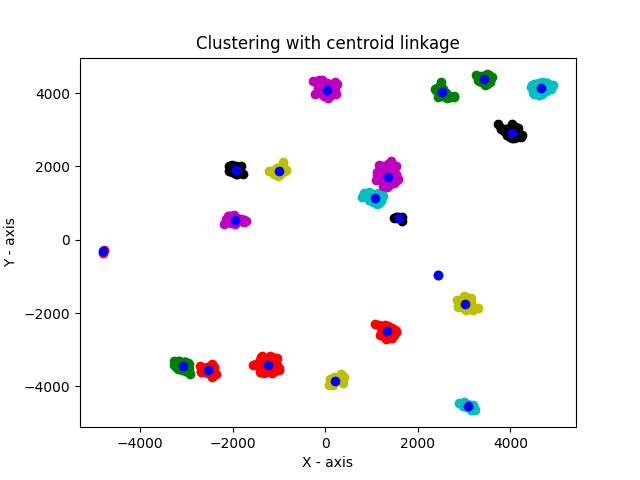
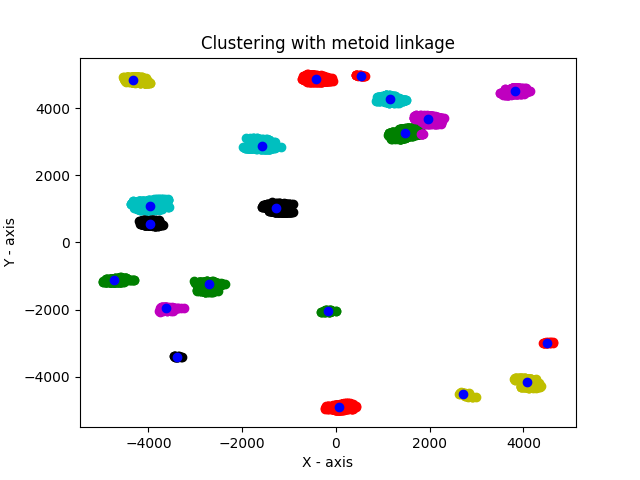
hadam funkcne

diff --git a/main.py b/main.py
@@ -2,6 +2,7 @@
 from random import randint, choice, sample
 import time
 import matplotlib.pyplot as plt
+import numpy as np
 
 
 # ----- TODO -----
@@ -92,8 +93,9 @@ def create_another_points(origin_points, number):
 
 
 def calculate_distance(point1, point2):
-    return abs(point2[0] - point1[0]) + abs(point2[1] - point1[1])
-    #return ((point1[0] - point2[0]) ** 2 + (point1[1] - point2[1]) ** 2) ** 0.5
+    #return abs(point2[0] - point1[0]) + abs(point2[1] - point1[1])
+    return ((point1[0] - point2[0]) ** 2 + (point1[1] - point2[1]) ** 2) ** 0.5
+    #return np.linalg.norm(np.array(point1) - np.array(point2))
 
 
 def calculate_cluster_distance(cluster1, cluster2):
@@ -102,7 +104,9 @@ def calculate_cluster_distance(cluster1, cluster2):
 
 def agglomerative_clustering(points, number_of_clusters, linkage, num_points):
     # first we create the distance matrix
-    # matrix_of_distances = generate_matrix_of_distances(points)
+
+    matrix_of_distances = generate_matrix_of_distances(points)
+
     clusters = [Cluster([curr_point], linkage) for curr_point in points]
 
     while len(clusters) > number_of_clusters:
@@ -117,17 +121,19 @@ def agglomerative_clustering(points, number_of_clusters, linkage, num_points):
         min_distance = float('inf')
         connect_clusters = (-1, -1)
 
-        for i in range(len(clusters)):
-            for j in range(i + 1, len(clusters)):
-                distance = calculate_cluster_distance(clusters[i], clusters[j])
+        for i in range(len(matrix_of_distances)):
+            for j in range(i + 1, len(matrix_of_distances[i])):
+                distance = matrix_of_distances[i][j]
                 if distance < min_distance:
                     min_distance = distance
                     connect_clusters = (i, j)
 
         if connect_clusters != (-1, -1):
             clusters[connect_clusters[0]].points.extend(clusters[connect_clusters[1]].points)
-            clusters[connect_clusters[0]].update_center_and_distance()
-            del clusters[connect_clusters[1]]
+            matrix_of_distances.pop(connect_clusters[1])
+            for x in range(len(matrix_of_distances)):
+                matrix_of_distances[x].pop(connect_clusters[1])
+            clusters.pop(connect_clusters[1])
 
     return clusters
 
@@ -135,6 +141,7 @@ def agglomerative_clustering(points, number_of_clusters, linkage, num_points):
 def validate_clusters(clusters):
     unsuccessful = 0
     for i, cluster in enumerate(clusters):
+        cluster.update_center_and_distance()
         center, avg_distance = cluster.center, cluster.average_distance
         if avg_distance > 500:
             unsuccessful += 1
@@ -165,7 +172,7 @@ def visualise_clusters(clusters, filename):
 
 
 def main():
-    num_points = 5000
+    num_points = 20000
     origin_points = generate_origin_points()
     another_points = create_another_points(origin_points, num_points)
     linkage = 'centroid'
